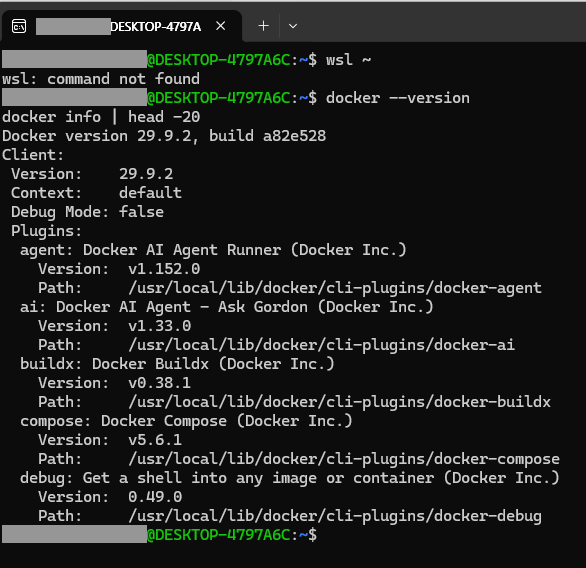
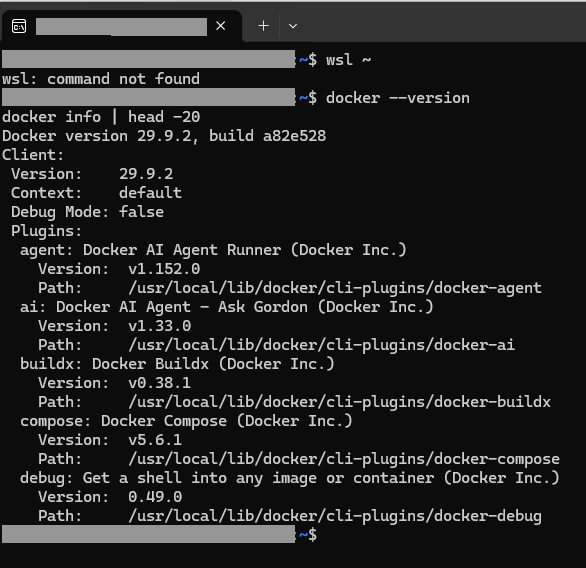
작업 흐름도 글자 잘림 수정, 스크린샷 아이디·컴퓨터 이름 일관 마스킹

Changed region(s): [[0.1843, 0.0299, 0.5222, 0.1197], [0.2457, 0.1496, 0.5222, 0.2095], [0.2457, 0.8979, 0.5222, 0.9577]]

diff --git a/README.md b/README.md
@@ -369,21 +369,21 @@ E1-1/
 
 ### 9-1. 전체 진행 흐름
 
-**설명:** ①·② 의 스크립트 실행(C~J)이 로그를 자동으로 만들고, 대화형 실습과 브라우저 접속(K)은 스크린샷으로 보완한 뒤, 모두 GitHub 에 커밋한다.
+**설명:** ①·② 의 스크립트 실행(00~07)과 ③ 의 08~10 이 로그를 자동으로 만들고, 대화형 실습과 브라우저 접속(K)은 스크린샷으로 보완한 뒤, 모두 GitHub 에 커밋한다.
 
 ```mermaid
 flowchart TB
     subgraph R1["① 준비"]
         direction LR
-        A["미션 분석<br/>저장소 생성"] --> B["폴더 구조·스크립트<br/>Dockerfile 작성"] --> C["00 실행 환경"] --> D["01 터미널"] --> E["02 권한"]
+        A["미션 분석<br/>저장소 생성"] --> B["폴더 구조<br/>스크립트<br/>Dockerfile"] --> C["00<br/>실행 환경"] --> D["01<br/>터미널"] --> E["02<br/>권한"]
     end
     subgraph R2["② Docker 실습"]
         direction LR
-        F["03 Docker 점검"] --> G["04 운영·컨테이너"] --> H["05 빌드·포트 매핑"] --> I["06 바인드 마운트"] --> J["07 볼륨"]
+        F["03<br/>Docker 점검"] --> G["04<br/>운영·컨테이너"] --> H["05<br/>빌드·포트"] --> I["06<br/>바인드 마운트"] --> J["07<br/>볼륨"]
     end
     subgraph R3["③ 증거 보완·마무리"]
         direction LR
-        K["대화형 실습·브라우저<br/>(스크린샷)"] --> L["08 Git · 09 Compose"] --> M["README 작성<br/>git push"]
+        K["대화형 실습<br/>브라우저 접속<br/>(스크린샷)"] --> L["08 Git<br/>09 Compose"] --> P["10<br/>포트 충돌"] --> M["README 작성<br/>git push"]
     end
     R1 --> R2 --> R3
 ```
@@ -419,7 +419,7 @@ sequenceDiagram
 flowchart LR
     subgraph HOST["호스트 (내 컴퓨터)"]
         BR["브라우저 / curl"]
-        DIR["bind-mount/site/<br/>(호스트 폴더)"]
+        DIR["bind-mount/site<br/>(호스트 폴더)"]
         VOL[("mydata<br/>Docker 볼륨")]
     end
     subgraph C1["my-web-8080"]
@@ -431,7 +431,7 @@ flowchart LR
     subgraph C3["bind-test"]
         H3["/usr/share/nginx/html"]
     end
-    subgraph C4["vol-test → 삭제 후 vol-test2"]
+    subgraph C4["vol-test / vol-test2"]
         D4["/data"]
     end
     BR -- "-p 8080:80" --> N1
